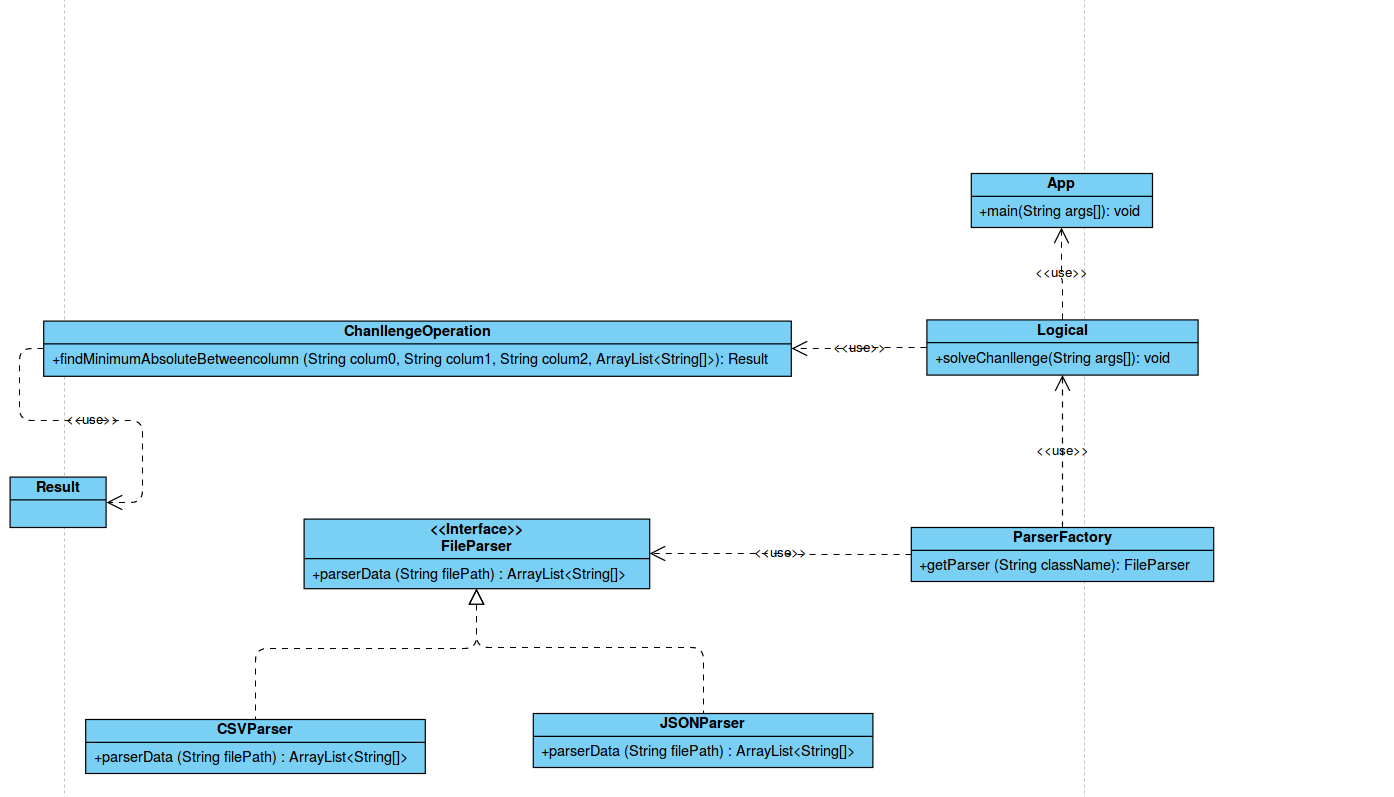
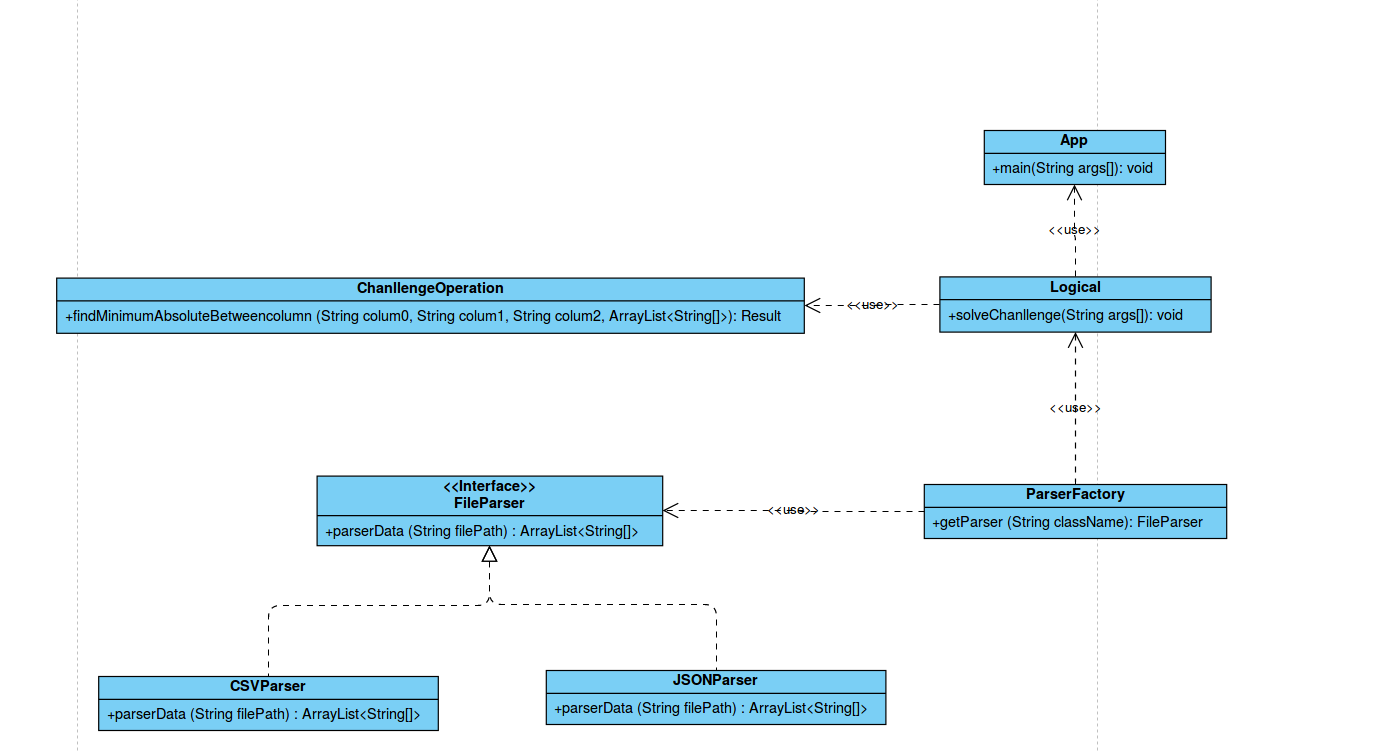
1. remove class result in the framewoke. 2. implement all the functions.

diff --git a/programming-challenge/src/main/java/de/exxcellent/challenge/App.java b/programming-challenge/src/main/java/de/exxcellent/challenge/App.java
@@ -1,5 +1,7 @@
 package de.exxcellent.challenge;
 
+import de.exxcellent.operation.Logical;
+
 /**
  * The entry class for your solution. This class is only aimed as starting point
  * and not intended as baseline for your software design. Read: create your own
@@ -9,14 +11,25 @@ package de.exxcellent.challenge;
  */
 public final class App {
 	private static String filePathweath = "src/main/resources/de/exxcellent/challenge/weather.csv";
+	private static String filePathfootball = "src/main/resources/de/exxcellent/challenge/football.csv";
 
 	public static void main(String... args) {
 
 		// Your preparation code …
-		ChanllengeSolver cs = new ChanllengeSolver();
+		String ars_weather[] = { "de.exxcellent.Parser.CSVParser", filePathweath, "Day", "MxT", "MnT" };
+		String ars_football[] = { "de.exxcellent.Parser.CSVParser", filePathfootball, "Team", "Goals",
+				"Goals Allowed" };
+		Logical lo = new Logical();
 		// Your day analysis function call …
-		String dayWithSmallestTempSpread = cs.findSmallTemperatureSpread("Day", "MxT", "MnT", filePathweath);
-
-		System.out.printf("Day with smallest temperature spread : %s%n", dayWithSmallestTempSpread);
+		String dayWithSmallestTempSpread = lo.solveChanllenge(ars_weather);
+		String teamWithSmallesGoalSpread = lo.solveChanllenge(ars_football);
+		if (dayWithSmallestTempSpread.equals("-1"))
+			System.out.printf("file error");// return -1 because nothing has been found 
+		else
+			System.out.printf("Day with smallest temperature spread : %s%n", dayWithSmallestTempSpread);
+		if (teamWithSmallesGoalSpread.equals("-1"))
+			System.out.printf("file error");
+		else
+			System.out.printf("Team with smallest goal spread       : %s%n", teamWithSmallesGoalSpread);
 	}
 }

diff --git a/programming-challenge/src/main/java/de/exxcellent/operation/ChanllengeOperation.java b/programming-challenge/src/main/java/de/exxcellent/operation/ChanllengeOperation.java
@@ -33,6 +33,37 @@ public class ChanllengeOperation {
 	 * @return String of the day number -1 means error report
 	 */
 	private String getSolution(String dayColum, String MxTColum, String MnTColum, ArrayList<String[]> dataset) {
-		return null;
+		int line = -1; // the number of the row, which has Small Temperature Spread
+		int mxt = -1; // the number of the column, which is mxt
+		int mnt = -1; // the number of the column, which is mnt
+		int day = -1; // the number of the column, which is mnt
+		if (dataset.size() == 0)
+			return String.valueOf(-1);
+		for (int i = 0; i < dataset.get(0).length; i++) {
+			if (dataset.get(0)[i].equals(MxTColum))
+				mxt = i;
+			if (dataset.get(0)[i].equals(MnTColum))
+				mnt = i;
+			if (dataset.get(0)[i].equals(dayColum))
+				day = i;
+		}
+		if ((mxt == -1) || (mnt == -1) || (day == -1)) 
+			return String.valueOf(-1);
+		float min = Float.MAX_VALUE;
+		for (int i = 1; i < dataset.size(); i++) {
+			try {
+				float mnt_value = Float.parseFloat(dataset.get(i)[mnt]);
+				float mxt_value = Float.parseFloat(dataset.get(i)[mxt]);
+				if (min > Math.abs(mnt_value - mxt_value)) {
+					min = Math.abs(mnt_value - mxt_value);
+					line = i;
+				}
+
+			} catch (NumberFormatException e) {
+				e.printStackTrace();
+			}
+		}
+		// System.out.println(mnt+" "+mxt+" "+line);
+		return String.valueOf(dataset.get(line)[day]);
 	}
 }

diff --git a/programming-challenge/src/main/java/de/exxcellent/operation/Logical.java b/programming-challenge/src/main/java/de/exxcellent/operation/Logical.java
@@ -1,14 +1,30 @@
 package de.exxcellent.operation;
+
+import java.util.ArrayList;
+
+import de.exxcellent.Parser.FileParser;
+import de.exxcellent.Parser.ParserFactory;
+
 /**
  * @author Wang
  * @version Version 1.00 time ${27.06.2018} ${11:28}
  */
 public class Logical {
 	/**
-	 * @param the needed parameters will be given, such as column name
+	 * @param the needed parameters will be given, 
+	 * agument format args[0] classname of parser
+	 * agument format args[1] filepath
+	 * agument format args[2] the column of the return value, such the day, the football team
+	 * agument format args[3] the compared column1
+	 * agument format args[4] the compared column2
 	 * @return void
 	 */
-	public void solveChanllenge(String args[]) {
-		
+	public String solveChanllenge(String args[]) {
+		ParserFactory pf=new ParserFactory();
+    	System.out.println(args[0]);
+    	FileParser fp=(FileParser)pf.getParser(args[0]);
+    	ArrayList<String[]> dataset= fp.parserData(args[1]);
+    	ChanllengeOperation chan=new ChanllengeOperation();
+    	return chan.findMinimumAbsoluteBetweencolum(args[2], args[3], args[4], dataset);
 	}
 }

diff --git a/programming-challenge/src/main/java/de/exxcellent/Parser/ParserFactory.java b/programming-challenge/src/main/java/de/exxcellent/Parser/ParserFactory.java
@@ -6,7 +6,16 @@ public class ParserFactory {
 	 * @param className used to get the instance
 	 * @return object the wanted instance of the FileParser
 	 */
-	public Object getReader(String className) {
-		return null;
+	public Object getParser(String className) {
+		Class<?> cls;
+		Object obj=null;
+		try {
+			cls = Class.forName(className);
+			obj = cls.newInstance();
+		} catch (ReflectiveOperationException e) {
+			// TODO Auto-generated catch block
+			e.printStackTrace();
+		}
+		return obj;
 	}
 }

diff --git a/programming-challenge/src/test/java/de/exxcellent/Parser/CSVParserTest.java b/programming-challenge/src/test/java/de/exxcellent/Parser/CSVParserTest.java
@@ -12,7 +12,7 @@ public class CSVParserTest {
 	@Test
 	public void testParserData() {
 		ArrayList<String[]> content=cs.parserData("src/main/resources/de/exxcellent/challenge/weather.csv");
-		Assert.assertEquals(30, content.size());
+		Assert.assertEquals(31, content.size());
 	}
 
 }
